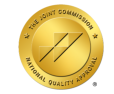
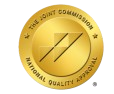
fixed the haeadings on the darck backgrounds to be visible and  opacity 90%

diff --git a/components/Footer.tsx b/components/Footer.tsx
@@ -39,16 +39,16 @@ export default function Footer() {
           {/* Brand Column */}
           <div className="lg:col-span-1">
             <Link href="/" className="flex items-center gap-3 group mb-6">
-              <div className="relative w-12 h-12">
+              <div className="relative w-12 h-12 rounded-xl bg-white/10 p-1.5 backdrop-blur-sm">
                 <Image
                   src="/Arayolight-logo.png"
                   alt="ArayoLight Homecare Services"
                   fill
-                  className="object-contain brightness-0 invert"
+                  className="object-contain"
                 />
               </div>
               <div>
-                <span className="font-heading text-xl font-bold text-white block tracking-tight">ArayoLight</span>
+                <span className="font-heading text-xl font-bold !text-white block tracking-tight">ArayoLight</span>
                 <span className="text-white/60 text-xs font-medium uppercase tracking-wider">Homecare Services</span>
               </div>
             </Link>
@@ -83,7 +83,7 @@ export default function Footer() {
 
           {/* Services Column */}
           <div>
-            <h3 className="font-heading text-base mb-5 text-white/90">Our Services</h3>
+            <h3 className="font-heading text-base mb-5 !text-white">Our Services</h3>
             <ul className="space-y-3">
               {footerLinks.services.map((link) => (
                 <li key={link.label}>
@@ -100,7 +100,7 @@ export default function Footer() {
 
           {/* Company Column */}
           <div>
-            <h3 className="font-heading text-base mb-5 text-white/90">Company</h3>
+            <h3 className="font-heading text-base mb-5 !text-white">Company</h3>
             <ul className="space-y-3">
               {footerLinks.company.map((link) => (
                 <li key={link.label}>
@@ -117,7 +117,7 @@ export default function Footer() {
 
           {/* Contact Column */}
           <div>
-            <h3 className="font-heading text-base mb-5 text-white/90">Contact Us</h3>
+            <h3 className="font-heading text-base mb-5 !text-white">Contact Us</h3>
             <ul className="space-y-4">
               <li className="flex items-start gap-3">
                 <Phone className="w-4 h-4 text-care-red flex-shrink-0 mt-0.5" />

diff --git a/components/Navbar.tsx b/components/Navbar.tsx
@@ -62,20 +62,20 @@ export default function Navbar() {
               
               {/* Logos */}
               <div className="flex items-center gap-2 md:gap-3 ml-1">
-                <div className="relative w-10 h-5 md:w-12 md:h-6 opacity-90">
+                <div className="relative w-10 h-5 md:w-12 md:h-6 bg-white rounded-md p-1">
                   <Image
                     src="/images/cmc-logo.png"
                     alt="CMC Accreditation"
                     fill
-                    className="object-contain brightness-0 invert"
+                    className="object-contain"
                   />
                 </div>
-                <div className="relative w-10 h-5 md:w-12 md:h-6 opacity-90">
+                <div className="relative w-10 h-5 md:w-12 md:h-6 bg-white rounded-md p-1">
                   <Image
                     src="/images/the-joint-commission.png"
                     alt="The Joint Commission"
                     fill
-                    className="object-contain brightness-0 invert"
+                    className="object-contain"
                   />
                 </div>
               </div>
@@ -114,7 +114,7 @@ export default function Navbar() {
           <div className="flex items-center justify-between h-16 md:h-20">
             {/* Logo */}
             <Link href="/" className="flex items-center gap-3 group">
-              <div className="relative w-12 h-12 md:w-14 md:h-14">
+              <div className="relative w-12 h-12 md:w-14 md:h-14 rounded-xl bg-care-navy p-1.5 shadow-md">
                 <Image
                   src="/Arayolight-logo.png"
                   alt="ArayoLight Homecare Services"

diff --git a/app/page.tsx b/app/page.tsx
@@ -215,7 +215,7 @@ function ViewAllServicesCard() {
         <div className="w-16 h-16 rounded-full bg-white/20 backdrop-blur-sm flex items-center justify-center mb-4 group-hover:scale-110 transition-transform duration-300">
           <ArrowRight className="w-8 h-8 text-white" />
         </div>
-        <h3 className="font-heading text-xl mb-2 text-white">View All Services</h3>
+        <h3 className="font-heading text-xl mb-2 !text-white">View All Services</h3>
         <p className="text-white/80 text-sm text-center">
           Explore our complete range of homecare solutions
         </p>
@@ -616,7 +616,7 @@ export default function HomePage() {
                   <Shield className="w-4 h-4" />
                   <span>Why Choose ArayoLight</span>
                 </div>
-                <h2 className="font-heading text-3xl md:text-4xl lg:text-5xl text-white mb-6">
+                <h2 className="font-heading text-3xl md:text-4xl lg:text-5xl !text-white mb-6">
                   Trusted Care for Over 20 Years
                 </h2>
                 <p className="text-white/70 text-lg mb-10 leading-relaxed">
@@ -632,7 +632,7 @@ export default function HomePage() {
                         <indicator.icon className="w-6 h-6 text-care-red" />
                       </div>
                       <div>
-                        <p className="font-heading text-2xl text-white">{indicator.value}</p>
+                        <p className="font-heading text-2xl !text-white">{indicator.value}</p>
                         <p className="text-white/60 text-sm font-medium">{indicator.label}</p>
                       </div>
                     </div>

diff --git a/app/services/page.tsx b/app/services/page.tsx
@@ -221,7 +221,7 @@ export default function ServicesPage() {
                 </div>
 
                 <div className="bg-care-navy rounded-2xl p-6 text-white">
-                  <h4 className="font-heading text-white mb-3">Daily Medication Process</h4>
+                  <h4 className="font-heading !text-white mb-3">Daily Medication Process</h4>
                   <ul className="space-y-2 text-white/70 text-sm">
                     <li className="flex items-start gap-2">
                       <span className="text-care-red font-bold">1.</span>
@@ -471,7 +471,7 @@ export default function ServicesPage() {
         <div className="container-care mx-auto px-4 sm:px-6 lg:px-8 relative z-10">
           <div className="text-center max-w-2xl mx-auto mb-14 md:mb-20">
             <FadeIn>
-              <h2 className="font-heading text-3xl md:text-4xl lg:text-5xl mb-4 text-white">
+              <h2 className="font-heading text-3xl md:text-4xl lg:text-5xl mb-4 !text-white">
                 Ready to Get Started?
               </h2>
               <p className="text-white/70 text-lg">

diff --git a/app/contact/page.tsx b/app/contact/page.tsx
@@ -171,7 +171,7 @@ export default function ContactPage() {
               <FadeIn direction="up">
                 <div className="bg-care-navy rounded-3xl p-8 md:p-10 shadow-[0_20px_60px_rgba(15,23,42,0.2)]">
                   <Clock className="w-12 h-12 text-care-red mb-5" />
-                  <h2 className="font-heading text-2xl md:text-3xl text-white mb-4">Fast Response Times</h2>
+                  <h2 className="font-heading text-2xl md:text-3xl !text-white mb-4">Fast Response Times</h2>
                   <p className="text-white/70 mb-8">
                     We understand that care needs can be urgent. That&apos;s why ArayoLight prioritizes 
                     quick responses to all inquiries.

diff --git a/app/about/page.tsx b/app/about/page.tsx
@@ -131,7 +131,7 @@ export default function AboutPage() {
                 </div>
                 
                 <div className="absolute -bottom-6 -left-6 bg-care-navy rounded-2xl p-6 shadow-[0_20px_50px_rgba(15,23,42,0.25)] max-w-xs border border-white/10">
-                  <h3 className="font-heading text-xl text-white mb-4">Our Journey</h3>
+                  <h3 className="font-heading text-xl !text-white mb-4">Our Journey</h3>
                   <div className="space-y-3">
                     {milestones.slice(0, 3).map((milestone) => (
                       <div key={milestone.year} className="flex gap-3">

diff --git a/components/CTASection.tsx b/components/CTASection.tsx
@@ -113,7 +113,7 @@ export default function CTASection({
       <div className="container-care mx-auto px-4 sm:px-6 lg:px-8 relative z-10">
         <FadeIn>
           <div className="max-w-3xl mx-auto text-center">
-            <h2 className="font-heading text-3xl md:text-4xl lg:text-5xl text-white mb-5">
+            <h2 className="font-heading text-3xl md:text-4xl lg:text-5xl !text-white mb-5">
               {title}
             </h2>
             <p className="text-white/70 text-lg md:text-xl mb-10">
